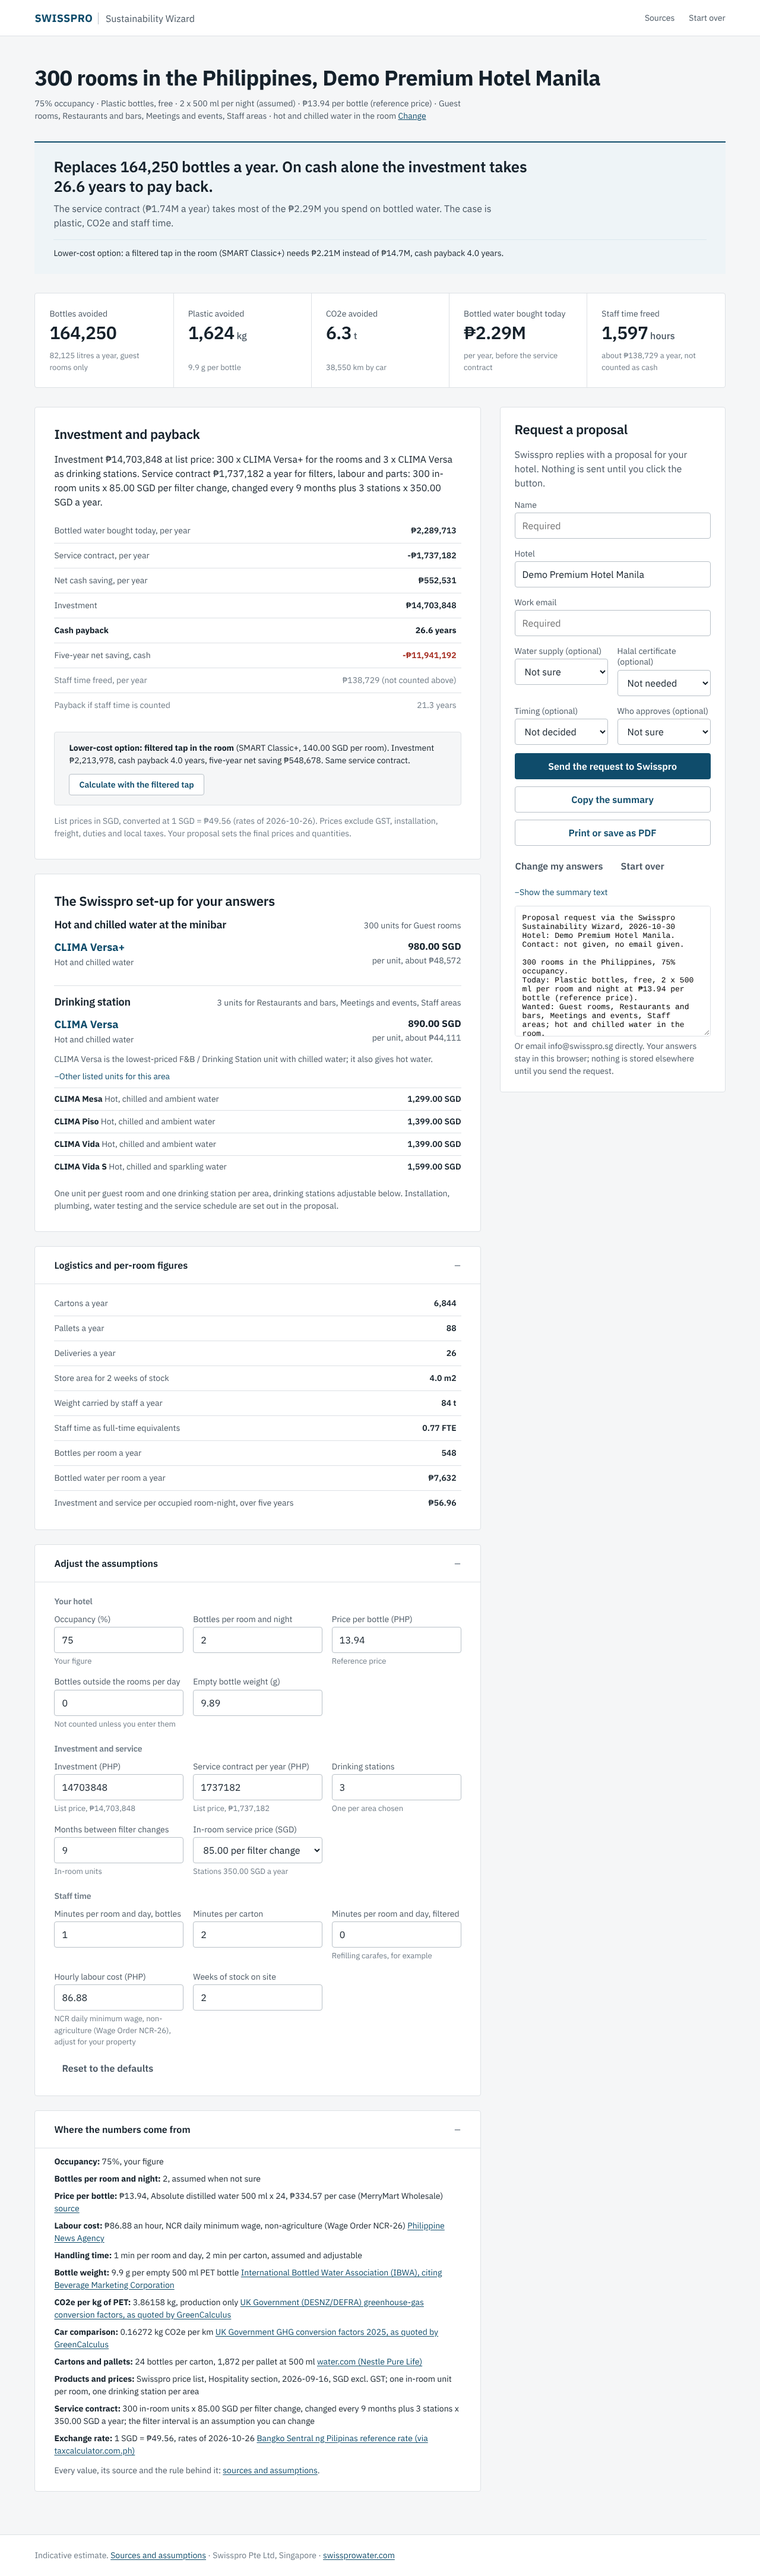
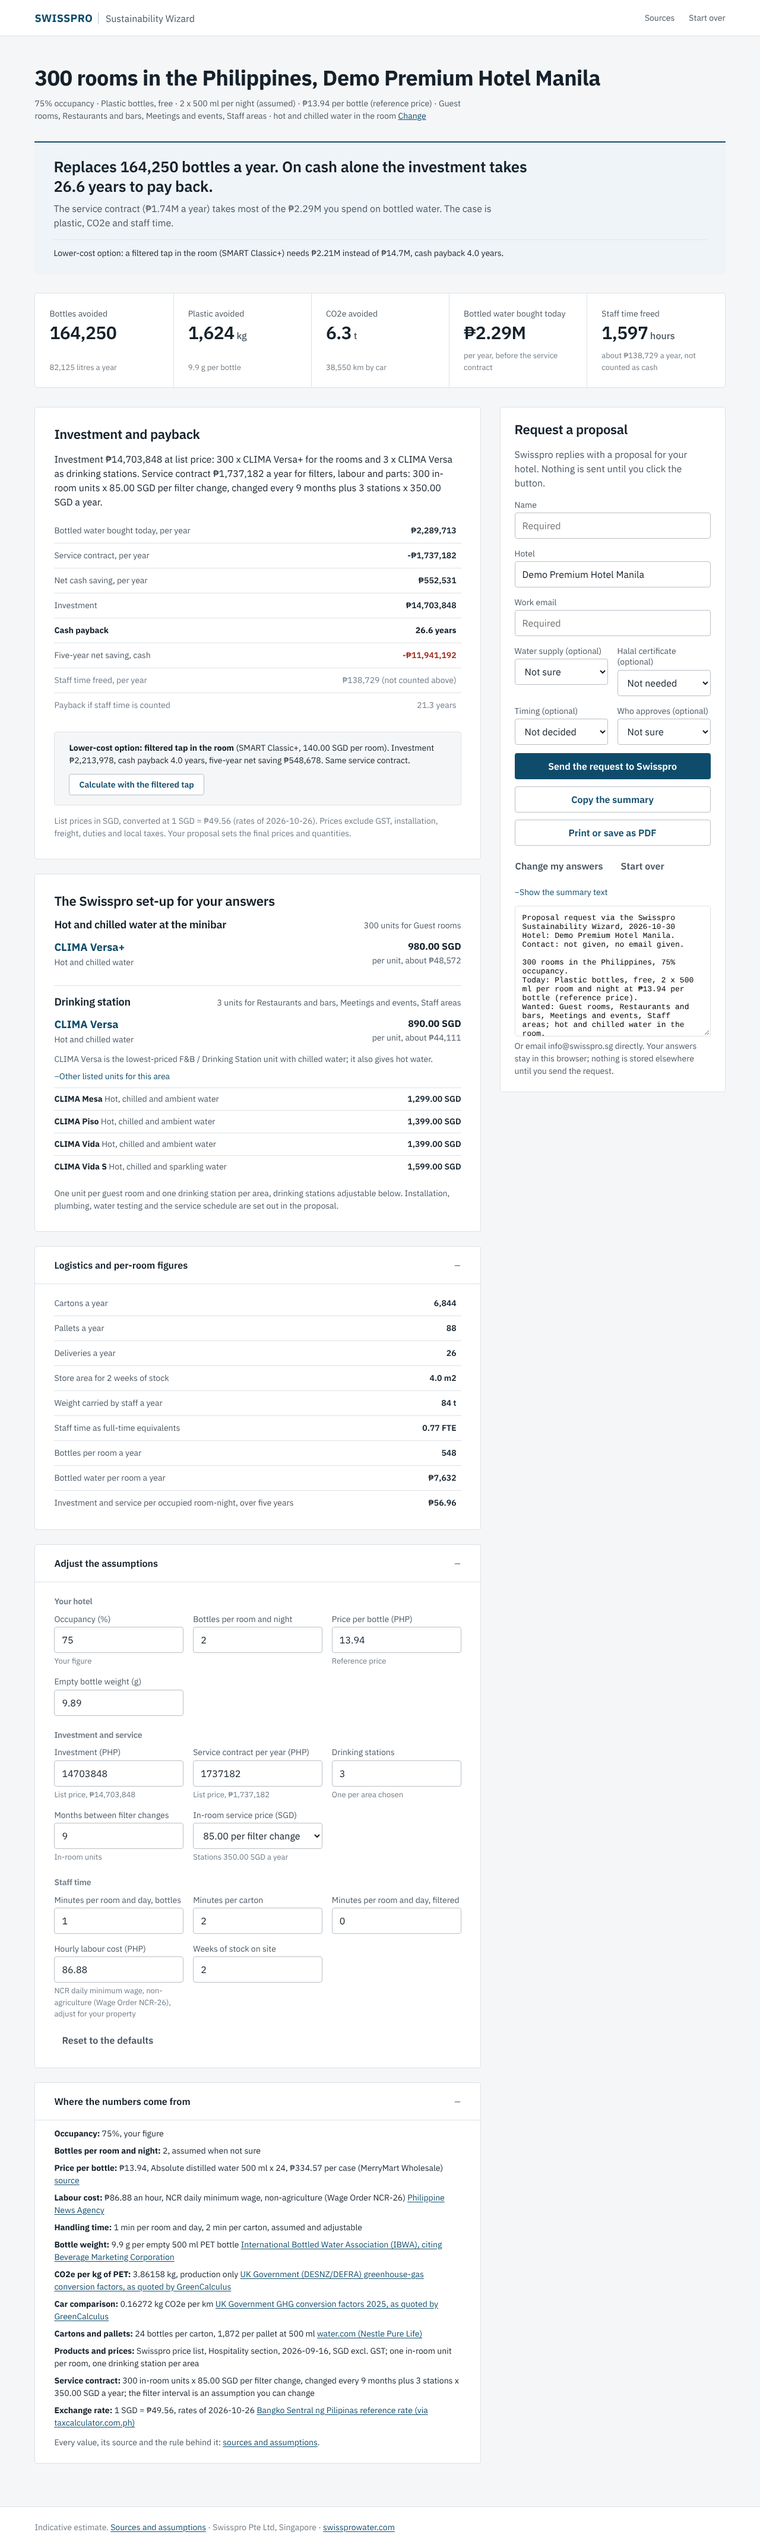
Remove the bottles-outside-rooms field: no source for a default, so the result counts guest rooms only
Claude-Session: https://claude.ai/code/session_01APodsUFWSb661S1TCdvVpy

diff --git a/artifact/wizard.html b/artifact/wizard.html
@@ -920,7 +920,7 @@ table.products td:nth-child(3) { width: 30%; }
       rooms: num(a.rooms, 0), occupancy: occupancy, bottlesPerRoomNight: bpn, bottleSizeMl: size,
       bottleMaterial: material, glassReusable: a.current === 'glass_own',
       bottleWeightOverrideG: overrides.bottleWeightG != null ? num(overrides.bottleWeightG, null) : null,
-      pricePerBottle: price, otherBottlesPerDay: overrides.otherBottlesPerDay != null ? num(overrides.otherBottlesPerDay, 0) : num(a.otherBottlesPerDay, 0),
+      pricePerBottle: price, otherBottlesPerDay: 0,
       minutesPerRoomPerDay: minutesPerRoom, minutesPerCarton: minutesPerCarton, newMinutesPerRoomPerDay: overrides.newMinutesPerRoomPerDay != null ? num(overrides.newMinutesPerRoomPerDay, 0) : 0, wageHourly: wage, stockWeeks: stockWeeks,
       capex: overrides.capex != null ? num(overrides.capex, null) : null,
       annualService: overrides.annualService != null ? num(overrides.annualService, 0) : null
@@ -1418,8 +1418,7 @@ table.products td:nth-child(3) { width: 30%; }
     function tile(label, value, unit, sub) {
       return el('div', { class: 'tile' }, el('div', { class: 'label', text: label }), el('div', { class: 'value' + (String(value).length >= 9 ? ' value-long' : ''), text: value }, unit ? el('span', { class: 'unit', text: ' ' + unit }) : null), el('div', { class: 'sub', text: sub || '' }));
     }
-    var outsideAreas = ['fnb', 'meetings', 'boh'].some(function (k) { return has(a.areas, k); });
-    tiles.appendChild(tile('Bottles avoided', fmt.int(c.bottles.total), null, fmt.int(c.env.litres) + ' litres a year' + (inp.otherBottlesPerDay > 0 ? ', ' + fmt.int(inp.otherBottlesPerDay) + ' a day outside the rooms included' : (outsideAreas ? ', guest rooms only' : ''))));
+    tiles.appendChild(tile('Bottles avoided', fmt.int(c.bottles.total), null, fmt.int(c.env.litres) + ' litres a year'));
     if (c.env.packagingKg != null) tiles.appendChild(tile('Plastic avoided', fmt.int(c.env.packagingKg), 'kg', fmt.dec(c.env.bottleWeightG, 1) + ' g per bottle'));
     else tiles.appendChild(tile('Cartons avoided', fmt.int(c.logistics.cartonsPerYear), null, fmt.int(c.logistics.palletsPerYear) + ' pallets a year'));
     tiles.appendChild(tile('CO2e avoided', c.env.quantified ? fmt.dec(c.env.co2eKg / 1000, 1) : '-', c.env.quantified ? 't' : null, c.env.quantified ? (fmt.int(c.env.co2eCarKm) + ' km by car' + (inp.bottleMaterial === 'glass' && !inp.glassReusable ? ', at least' : '')) : 'Not estimated'));
@@ -1561,7 +1560,6 @@ table.products td:nth-child(3) { width: 30%; }
     field(g1, 'occupancy', 'Occupancy (%)', Math.round(inp.occupancy * 1000) / 10, 1, { max: 100 }, ctx.n.provenance.occupancy.kind === 'user' ? 'Your figure' : 'National average');
     field(g1, 'bottlesPerRoomNight', 'Bottles per room and night', inp.bottlesPerRoomNight, 0.5);
     field(g1, 'pricePerBottle', 'Price per bottle (' + inp.currency + ')', Math.round(inp.pricePerBottle * 1000) / 1000, 0.01, null, ctx.n.provenance.pricePerBottle.kind === 'user' ? 'Your price' : 'Reference price');
-    field(g1, 'otherBottlesPerDay', 'Bottles outside the rooms per day', inp.otherBottlesPerDay, 1, null, inp.otherBottlesPerDay > 0 ? 'Your figure' : 'Not counted unless you enter them');
     if (c.env.packagingKg != null) field(g1, 'bottleWeightG', 'Empty bottle weight (g)', Math.round(c.env.bottleWeightG * 100) / 100, 0.1);
     var g2 = group('Investment and service');
     field(g2, 'capex', 'Investment (' + inp.currency + ')', o.capex != null ? o.capex : (pr.capexLocal != null ? Math.round(pr.capexLocal) : ''), 1, { placeholder: 'from your proposal' }, (pr.capexSource === 'user' ? 'Your figure' : (pr.capexSource === 'pricelist' ? 'List price' : 'Not in the price list')) + (pr.capexLocal != null ? ', ' + money(ctx, pr.capexLocal) : ''));
@@ -1578,7 +1576,7 @@ table.products td:nth-child(3) { width: 30%; }
     var g3 = group('Staff time');
     field(g3, 'minutesPerRoomPerDay', 'Minutes per room and day, bottles', inp.minutesPerRoomPerDay, 0.5);
     field(g3, 'minutesPerCarton', 'Minutes per carton', inp.minutesPerCarton, 0.5);
-    field(g3, 'newMinutesPerRoomPerDay', 'Minutes per room and day, filtered', inp.newMinutesPerRoomPerDay, 0.5, null, state.answers.temps === 'sparkling' ? 'Not counted yet; add time for refilling sparkling water' : 'Refilling carafes, for example');
+    field(g3, 'newMinutesPerRoomPerDay', 'Minutes per room and day, filtered', inp.newMinutesPerRoomPerDay, 0.5);
     field(g3, 'wageHourly', 'Hourly labour cost (' + inp.currency + ')', Math.round(inp.wageHourly * 100) / 100, 0.1, null, ctx.n.provenance.wageHourly.kind === 'user' ? 'Your figure' : (ctx.n.country.wageMonthly.label || 'Minimum wage') + ', adjust for your property');
     field(g3, 'stockWeeks', 'Weeks of stock on site', inp.stockWeeks, 1);
     card.appendChild(el('div', { class: 'actions' }, el('button', { type: 'button', class: 'btn btn-ghost', onclick: function () { state.overrides = {}; save(); renderResults(); } }, 'Reset to the defaults')));
@@ -1632,7 +1630,7 @@ table.products td:nth-child(3) { width: 30%; }
     if (extra.length) L.push(extra.join('. ') + '.');
     L.push('');
     L.push('Indicative figures per year');
-    L.push('- Bottles avoided: ' + fmt.int(c.bottles.total) + ' (' + fmt.int(c.env.litres) + ' litres)' + (inp.otherBottlesPerDay > 0 ? ', including ' + fmt.int(inp.otherBottlesPerDay) + ' a day outside the rooms' : ', guest rooms only'));
+    L.push('- Bottles avoided: ' + fmt.int(c.bottles.total) + ' (' + fmt.int(c.env.litres) + ' litres)');
     if (c.env.packagingKg != null) L.push('- Plastic avoided: ' + fmt.int(c.env.packagingKg) + ' kg');
     if (c.env.quantified) L.push('- CO2e avoided: ' + fmt.dec(c.env.co2eKg / 1000, 1) + ' t');
     if (inp.pricePerBottle > 0) L.push('- Bottled water bought today: ' + m(c.spend.annualLocal));

diff --git a/js/app.js b/js/app.js
@@ -323,8 +323,7 @@
     function tile(label, value, unit, sub) {
       return el('div', { class: 'tile' }, el('div', { class: 'label', text: label }), el('div', { class: 'value' + (String(value).length >= 9 ? ' value-long' : ''), text: value }, unit ? el('span', { class: 'unit', text: ' ' + unit }) : null), el('div', { class: 'sub', text: sub || '' }));
     }
-    var outsideAreas = ['fnb', 'meetings', 'boh'].some(function (k) { return has(a.areas, k); });
-    tiles.appendChild(tile('Bottles avoided', fmt.int(c.bottles.total), null, fmt.int(c.env.litres) + ' litres a year' + (inp.otherBottlesPerDay > 0 ? ', ' + fmt.int(inp.otherBottlesPerDay) + ' a day outside the rooms included' : (outsideAreas ? ', guest rooms only' : ''))));
+    tiles.appendChild(tile('Bottles avoided', fmt.int(c.bottles.total), null, fmt.int(c.env.litres) + ' litres a year'));
     if (c.env.packagingKg != null) tiles.appendChild(tile('Plastic avoided', fmt.int(c.env.packagingKg), 'kg', fmt.dec(c.env.bottleWeightG, 1) + ' g per bottle'));
     else tiles.appendChild(tile('Cartons avoided', fmt.int(c.logistics.cartonsPerYear), null, fmt.int(c.logistics.palletsPerYear) + ' pallets a year'));
     tiles.appendChild(tile('CO2e avoided', c.env.quantified ? fmt.dec(c.env.co2eKg / 1000, 1) : '-', c.env.quantified ? 't' : null, c.env.quantified ? (fmt.int(c.env.co2eCarKm) + ' km by car' + (inp.bottleMaterial === 'glass' && !inp.glassReusable ? ', at least' : '')) : 'Not estimated'));
@@ -466,7 +465,6 @@
     field(g1, 'occupancy', 'Occupancy (%)', Math.round(inp.occupancy * 1000) / 10, 1, { max: 100 }, ctx.n.provenance.occupancy.kind === 'user' ? 'Your figure' : 'National average');
     field(g1, 'bottlesPerRoomNight', 'Bottles per room and night', inp.bottlesPerRoomNight, 0.5);
     field(g1, 'pricePerBottle', 'Price per bottle (' + inp.currency + ')', Math.round(inp.pricePerBottle * 1000) / 1000, 0.01, null, ctx.n.provenance.pricePerBottle.kind === 'user' ? 'Your price' : 'Reference price');
-    field(g1, 'otherBottlesPerDay', 'Bottles outside the rooms per day', inp.otherBottlesPerDay, 1, null, inp.otherBottlesPerDay > 0 ? 'Your figure' : 'Not counted unless you enter them');
     if (c.env.packagingKg != null) field(g1, 'bottleWeightG', 'Empty bottle weight (g)', Math.round(c.env.bottleWeightG * 100) / 100, 0.1);
     var g2 = group('Investment and service');
     field(g2, 'capex', 'Investment (' + inp.currency + ')', o.capex != null ? o.capex : (pr.capexLocal != null ? Math.round(pr.capexLocal) : ''), 1, { placeholder: 'from your proposal' }, (pr.capexSource === 'user' ? 'Your figure' : (pr.capexSource === 'pricelist' ? 'List price' : 'Not in the price list')) + (pr.capexLocal != null ? ', ' + money(ctx, pr.capexLocal) : ''));
@@ -483,7 +481,7 @@
     var g3 = group('Staff time');
     field(g3, 'minutesPerRoomPerDay', 'Minutes per room and day, bottles', inp.minutesPerRoomPerDay, 0.5);
     field(g3, 'minutesPerCarton', 'Minutes per carton', inp.minutesPerCarton, 0.5);
-    field(g3, 'newMinutesPerRoomPerDay', 'Minutes per room and day, filtered', inp.newMinutesPerRoomPerDay, 0.5, null, state.answers.temps === 'sparkling' ? 'Not counted yet; add time for refilling sparkling water' : 'Refilling carafes, for example');
+    field(g3, 'newMinutesPerRoomPerDay', 'Minutes per room and day, filtered', inp.newMinutesPerRoomPerDay, 0.5);
     field(g3, 'wageHourly', 'Hourly labour cost (' + inp.currency + ')', Math.round(inp.wageHourly * 100) / 100, 0.1, null, ctx.n.provenance.wageHourly.kind === 'user' ? 'Your figure' : (ctx.n.country.wageMonthly.label || 'Minimum wage') + ', adjust for your property');
     field(g3, 'stockWeeks', 'Weeks of stock on site', inp.stockWeeks, 1);
     card.appendChild(el('div', { class: 'actions' }, el('button', { type: 'button', class: 'btn btn-ghost', onclick: function () { state.overrides = {}; save(); renderResults(); } }, 'Reset to the defaults')));
@@ -537,7 +535,7 @@
     if (extra.length) L.push(extra.join('. ') + '.');
     L.push('');
     L.push('Indicative figures per year');
-    L.push('- Bottles avoided: ' + fmt.int(c.bottles.total) + ' (' + fmt.int(c.env.litres) + ' litres)' + (inp.otherBottlesPerDay > 0 ? ', including ' + fmt.int(inp.otherBottlesPerDay) + ' a day outside the rooms' : ', guest rooms only'));
+    L.push('- Bottles avoided: ' + fmt.int(c.bottles.total) + ' (' + fmt.int(c.env.litres) + ' litres)');
     if (c.env.packagingKg != null) L.push('- Plastic avoided: ' + fmt.int(c.env.packagingKg) + ' kg');
     if (c.env.quantified) L.push('- CO2e avoided: ' + fmt.dec(c.env.co2eKg / 1000, 1) + ' t');
     if (inp.pricePerBottle > 0) L.push('- Bottled water bought today: ' + m(c.spend.annualLocal));

diff --git a/js/model.js b/js/model.js
@@ -69,7 +69,7 @@
       rooms: num(a.rooms, 0), occupancy: occupancy, bottlesPerRoomNight: bpn, bottleSizeMl: size,
       bottleMaterial: material, glassReusable: a.current === 'glass_own',
       bottleWeightOverrideG: overrides.bottleWeightG != null ? num(overrides.bottleWeightG, null) : null,
-      pricePerBottle: price, otherBottlesPerDay: overrides.otherBottlesPerDay != null ? num(overrides.otherBottlesPerDay, 0) : num(a.otherBottlesPerDay, 0),
+      pricePerBottle: price, otherBottlesPerDay: 0,
       minutesPerRoomPerDay: minutesPerRoom, minutesPerCarton: minutesPerCarton, newMinutesPerRoomPerDay: overrides.newMinutesPerRoomPerDay != null ? num(overrides.newMinutesPerRoomPerDay, 0) : 0, wageHourly: wage, stockWeeks: stockWeeks,
       capex: overrides.capex != null ? num(overrides.capex, null) : null,
       annualService: overrides.annualService != null ? num(overrides.annualService, 0) : null

diff --git a/docs/METHODOLOGY.md b/docs/METHODOLOGY.md
@@ -15,10 +15,10 @@ The wizard turns ten multiple-choice answers into an indicative business case. A
 Where sources disagree, one value per factor is chosen by a rule stated once in `js/factors.js` (`rules`): newest official national occupancy figure (official year-to-date if the year is incomplete, named consultancy if no official series); statutory minimum wage 2025 (Bali for Indonesia); lowest published national-brand carton price; one USD rate per currency on a single reference date; newest UK Government PET factor; IBWA 500 ml bottle weight.
 
 ## Formulas
-Let R = rooms, O = occupancy, B = bottles per occupied room-night, D = 365, X = bottles used outside rooms per day.
+Let R = rooms, O = occupancy, B = bottles per occupied room-night, D = 365.
 
 1. Occupied room-nights `N = R x O x D`
-2. Bottles avoided per year `Q = N x B + X x D`
+2. Bottles avoided per year `Q = N x B` (guest rooms only; no published figure exists for bottles used outside the rooms, so they are not counted)
 3. Litres `= Q x size / 1000`
 4. Plastic avoided `= Q x w(size) / 1000` kg, where `w(500) = 9.89 g` (IBWA/BMC) and `w(s) = 9.89 x (s/500)^(2/3)` for other sizes (assumption).
    Glass bottles: no opened source for a weight, so not quantified; reusable glass already avoids single-use packaging.
@@ -27,7 +27,6 @@ Let R = rooms, O = occupancy, B = bottles per occupied room-night, D = 365, X = 
 6. Bottled-water spend avoided `= Q x price per bottle` (local currency; sourced carton prices or the user's own).
 7. Housekeeping time `= N x minutes per room / 60 + (Q / 24) x minutes per carton / 60` hours; value `= hours x hourly wage`, where hourly wage = monthly reference wage / (2080/12).
 8. Logistics: cartons `= Q / 24`; pallets `= Q / (1872 x 500/size)`; peak pallets `= pallets x stock weeks / 52`; store area `= peak pallets x 1.2 m2 x aisle multiplier`; deliveries `= 52 / stock weeks`; tonnes carried `= Q x (size/1000 + w/1000) / 1000`.
-Bottles used outside the rooms (X) default to 0 and are set in the adjust panel.
 
 9. Service contract per year `= in-room units x s + stations x 350.00`, where `s` is the reading of the 85.00 In-Room line: per change every m months `= 85 x 12 / m` (default, m = 9: 113.33), per year `= 85`, per 2-year contract `= 42.50`; converted from the list currency (SGD, assumption) with the register's exchange rates. Units `= rooms (in-room) + one station per other area` (assumption).
 10. Investment `= sum over areas of (lowest-priced matching list line x units)`; if an area has no matching line (in-room sparkling), the hotel enters the figure from its proposal.
